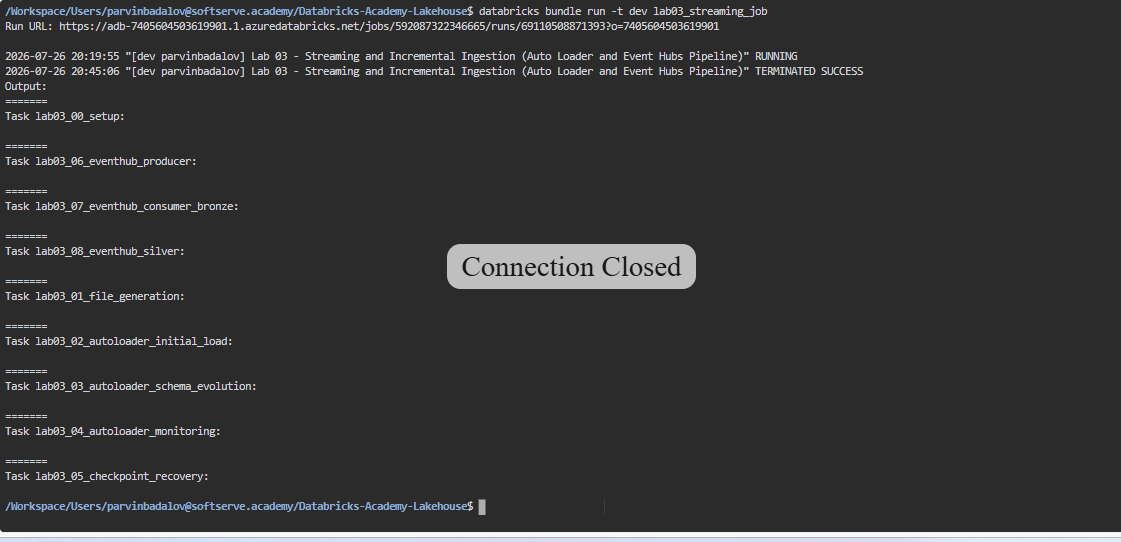
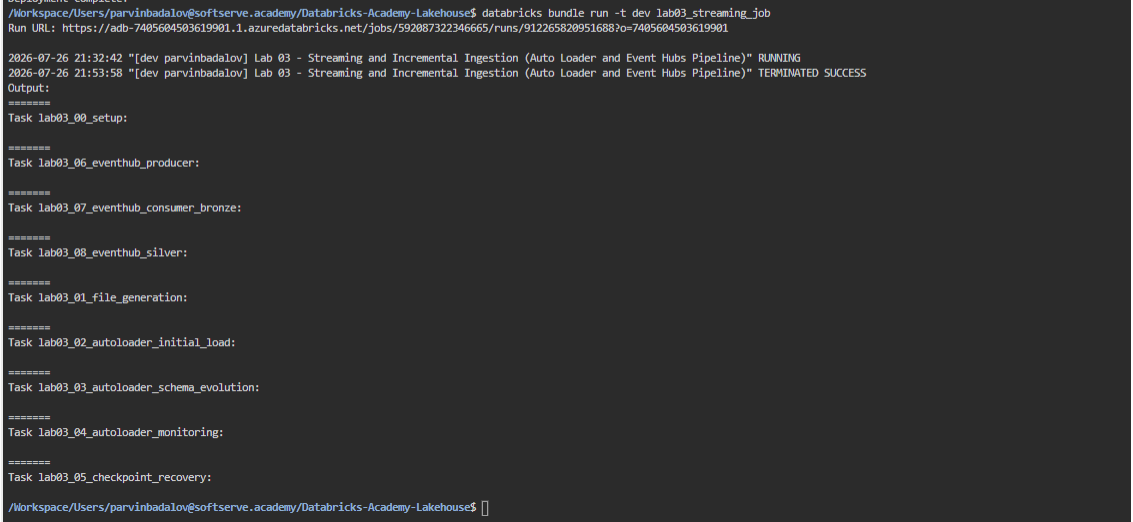
full

Changed region(s): [[0.0, 0.0, 1.0, 1.0], [0.0, 0.0, 0.6869, 0.0613], [0.3747, 0.4291, 0.6244, 0.5517]]

diff --git a/labs/lab_03_streaming_incremental/README.md b/labs/lab_03_streaming_incremental/README.md
@@ -326,12 +326,27 @@ instead of creating a duplicate. After binding, the deployment plan reported:
 
 Development mode used a source-linked deployment, so the deployed Job
 references the source notebooks in the Databricks Git folder. The bundle
-deployment completed successfully, and the post-deployment execution finished
-with `TERMINATED SUCCESS` across both branches.
+deployment completed successfully. The final parameterized execution finished
+with `TERMINATED SUCCESS` across both branches in 21 minutes 12 seconds.
+
+### Job parameters
+
+The bundle defines Job-level parameters that are passed to matching notebook
+widgets. This allows environment and run settings to be changed without
+modifying notebook source code.
+
+| Parameter | Default value |
+|---|---|
+| `catalog` | `dbr_dev` |
+| `schema` | `parvinbadalov` |
+| `volume_name` | `lab03_streaming` |
+| `trigger_type` | `availableNow` |
+| `max_files_per_trigger` | `50` |
+| `producer_id` | `parvinbadalov` |
+
 
 ![Successful Asset Bundle deployment and run](images/14_asset_bundle_job_success_terminal.png)
-![Successful Asset Bundle deployment and run](images/14_asset_bundle_job_success.png)
-
+![Successful parameterized Asset Bundle Job run](images/14_asset_bundle_job_success.png)
 
 Once bound and deployed, the Job configuration is managed by the bundle.
 Changes should be made in the YAML files and deployed again rather than edited
@@ -356,6 +371,7 @@ directly in the Job UI.
 | Existing Job binding | Passed; no duplicate created |
 | Asset Bundle deployment | **Succeeded** |
 | Post-deployment Job run | **TERMINATED SUCCESS** |
+| Job parameter propagation | Passed; all six parameters displayed in the deployed Job |
 
 ## Running the project
 
